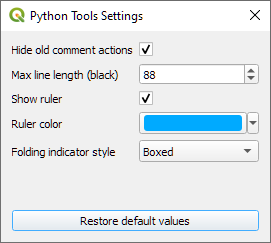
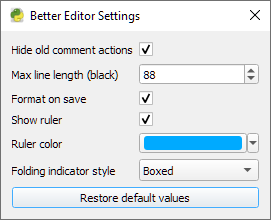
Update Readme and metadata

diff --git a/README.md b/README.md
@@ -24,6 +24,7 @@ Settings dialog
  ![Settings dialog](./docs/settings_dialog.png)
  - Hide default QGIS comment & uncomment actions
  - Set the max line length (will be used by the ruler, and black)
+ - Format on save applies black before saving file
  - Configure the ruler
  - Change the default folding indicator (QGIS default is `Plain`)
 
